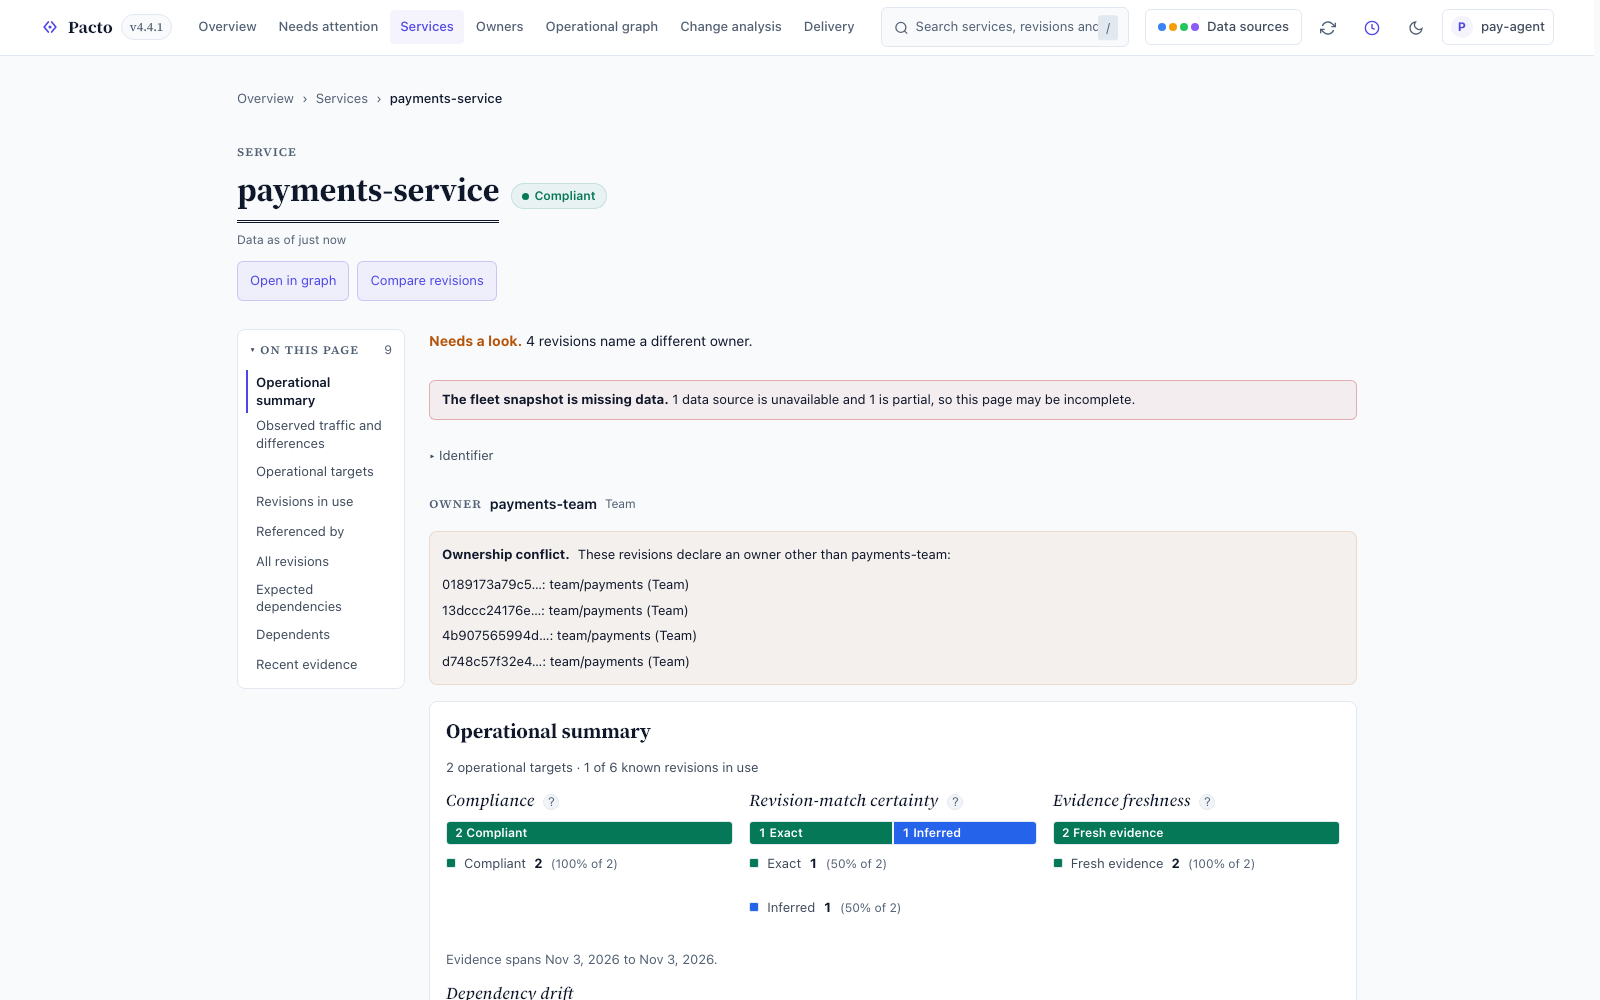
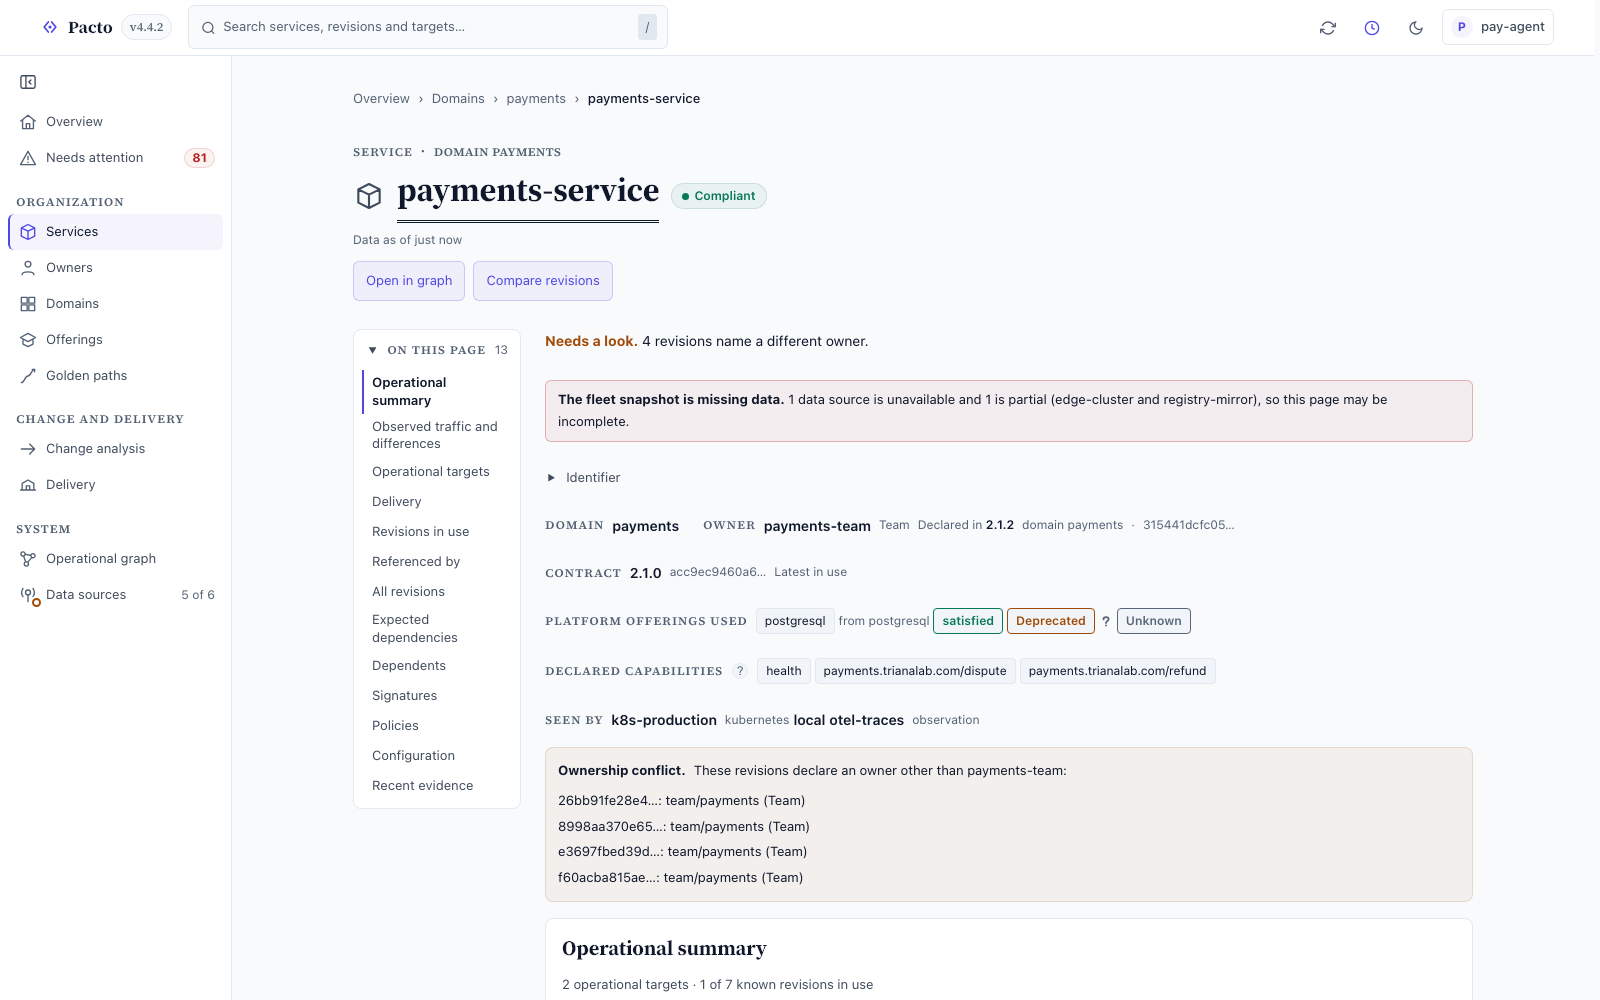
docs: regenerate the dashboard screenshots from the WASM demo with a reproducible capture
make docs-screenshots builds the demo and captures every documented
view at 1600x1000 in both themes, with the notice dismissed and each
figure at its final frame. The captions now describe what the new
screenshots show.

diff --git a/pkg/dashboard/frontend/e2e-screenshots/capture.spec.ts b/pkg/dashboard/frontend/e2e-screenshots/capture.spec.ts
@@ -1,0 +1,50 @@
+import { test, expect, type Page } from '@playwright/test';
+import { appReady, settle } from '../e2e/ready';
+import { chooseRevision } from '../e2e/layoutGate';
+
+// One screenshot per documented view and theme, at 1600x1000 with the sidebar in its
+// wide-screen default (expanded). The demo's notice strip is dismissed, and every
+// figure is shown at its final frame, so two runs over the same build match.
+const OUT = '../../../docs/assets/screenshots';
+
+const SHOTS: { name: string; open: (page: Page) => Promise<void> }[] = [
+  { name: 'overview', open: (p) => go(p, '/#/fleet', 'Is anything wrong?') },
+  { name: 'service', open: (p) => go(p, '/#/fleet/services/payments-service', 'payments-service') },
+  { name: 'graph', open: async (p) => { await go(p, '/#/fleet/graph/service/payments-service', 'Operational graph'); await p.waitForTimeout(1500); } },
+  {
+    name: 'change-analysis',
+    open: async (p) => {
+      await go(p, '/#/fleet/changes/payments-service', 'Change analysis');
+      await chooseRevision(p, '#impact-old-rev', '1.2.1');
+      await chooseRevision(p, '#impact-new-rev', '2.0.1');
+      await p.getByRole('button', { name: /Compare revisions/ }).click();
+      await expect(p.locator('[data-fig] svg[role="img"]').first()).toBeAttached();
+    },
+  },
+  { name: 'delivery-stages', open: (p) => go(p, '/#/delivery/environments', 'Stages') },
+  { name: 'autonomy', open: (p) => go(p, '/#/delivery/autonomy', 'Autonomy') },
+];
+
+async function go(page: Page, hash: string, heading: string) {
+  await page.goto(hash);
+  await expect(page.getByRole('heading', { level: 1 }).filter({ hasText: heading }).first()).toBeVisible();
+}
+
+for (const theme of ['light', 'dark'] as const) {
+  test.describe(theme, () => {
+    test.use({ colorScheme: theme });
+    for (const s of SHOTS) {
+      test(s.name, async ({ page }) => {
+        await appReady(page);
+        const dismiss = page.getByRole('button', { name: 'Dismiss this notice' });
+        if (await dismiss.isVisible()) await dismiss.click();
+        await s.open(page);
+        await page.evaluate(() => { document.documentElement.dataset.narrate = 'final'; });
+        await page.evaluate(() => document.getAnimations().forEach((a) => a.finish()));
+        await settle(page);
+        await page.evaluate(() => window.scrollTo(0, 0));
+        await page.screenshot({ path: `${OUT}/dashboard-${s.name}-${theme}.png`, animations: 'disabled', caret: 'hide' });
+      });
+    }
+  });
+}

diff --git a/pkg/dashboard/frontend/playwright.screenshots.config.ts b/pkg/dashboard/frontend/playwright.screenshots.config.ts
@@ -1,0 +1,20 @@
+import { defineConfig, devices } from '@playwright/test';
+import { APP_PORT } from './e2e/ports';
+
+// The documentation screenshots (docs/assets/screenshots/dashboard-*.png), captured
+// from the BUILT WASM demo so they are reproducible: `make docs-screenshots`. A
+// separate config, so the PR suite never rewrites the docs' images.
+export default defineConfig({
+  testDir: './e2e-screenshots',
+  timeout: 90_000,
+  expect: { timeout: 20_000 },
+  workers: 1,
+  reporter: [['list']],
+  use: { ...devices['Desktop Chrome'], baseURL: `http://127.0.0.1:${APP_PORT}/`, viewport: { width: 1600, height: 1000 }, deviceScaleFactor: 1 },
+  webServer: {
+    command: `python3 e2e/serve.py ${APP_PORT} ../../../examples/demo/dist`,
+    url: `http://127.0.0.1:${APP_PORT}/index.html`,
+    reuseExistingServer: !process.env.CI,
+    timeout: 60_000,
+  },
+});

diff --git a/pkg/dashboard/frontend/vite.config.js b/pkg/dashboard/frontend/vite.config.js
@@ -19,9 +19,9 @@ export default defineConfig(({ mode }) => ({
     // jsdom has no Web Animations API and no matchMedia; Svelte's transitions,
     // animate:flip and prefersReducedMotion all need them. See src/test-setup.ts.
     setupFiles: ['./src/test-setup.ts'],
-    // e2e/, e2e-live/ and e2e-docs-site/ hold Playwright browser specs (*.spec.ts)
+    // e2e/, e2e-live/, e2e-docs-site/ and e2e-screenshots/ hold Playwright browser specs (*.spec.ts)
     // driven by a real browser, not vitest/jsdom — exclude them from the unit run.
-    exclude: ['e2e/**', 'e2e-live/**', 'e2e-docs-site/**', '**/node_modules/**', '**/dist/**'],
+    exclude: ['e2e/**', 'e2e-live/**', 'e2e-docs-site/**', 'e2e-screenshots/**', '**/node_modules/**', '**/dist/**'],
   },
   ...(mode === 'test' ? { resolve: { conditions: ['browser'] } } : {}),
 }));

diff --git a/docs/impact.md b/docs/impact.md
@@ -250,8 +250,8 @@ evidence gaps are folded below it, each with its count. It reads the **currently
 Operational Graph shows, so its `snapshotId` matches the graph. The **include-observed** control is enabled only when the host
 declares an observation source, because observed evidence needs a real source.
 
-![Change analysis for payments-service 1.2.1 to 2.0.1: the change is breaking and blocked, and the affected consumers table lists api-gateway and orders-service as incompatible](assets/screenshots/dashboard-change-analysis-light.png#only-light)
-![Change analysis for payments-service 1.2.1 to 2.0.1: the change is breaking and blocked, and the affected consumers table lists api-gateway and orders-service as incompatible](assets/screenshots/dashboard-change-analysis-dark.png#only-dark)
+![Change analysis for payments-service 1.2.1 to 2.0.1: the change is breaking and blocked, and the Incompatible lane names api-gateway and orders-service](assets/screenshots/dashboard-change-analysis-light.png#only-light)
+![Change analysis for payments-service 1.2.1 to 2.0.1: the change is breaking and blocked, and the Incompatible lane names api-gateway and orders-service](assets/screenshots/dashboard-change-analysis-dark.png#only-dark)
 
 ## What's next
 

diff --git a/docs/examples/dashboard-demo.md b/docs/examples/dashboard-demo.md
@@ -58,8 +58,8 @@ can see how Pacto reports them.
 
 The delivery screens play the payments story, the scenario every demo shares.
 
-![The Stages tab: five services across test and prod, each with its running version, autonomy level and check result, and the "What Pacto would have done" list for fraud](../assets/screenshots/dashboard-delivery-stages-light.png#only-light)
-![The Stages tab: five services across test and prod, each with its running version, autonomy level and check result, and the "What Pacto would have done" list for fraud](../assets/screenshots/dashboard-delivery-stages-dark.png#only-dark)
+![The Stages tab: a figure of where the services stand in test, prod, prod-eu and prod-us, and below it each service with its running version, autonomy level and check result per environment](../assets/screenshots/dashboard-delivery-stages-light.png#only-light)
+![The Stages tab: a figure of where the services stand in test, prod, prod-eu and prod-us, and below it each service with its running version, autonomy level and check result per environment](../assets/screenshots/dashboard-delivery-stages-dark.png#only-dark)
 
 Before the tour starts, the tab has already played its first steps, so the
 screens show:

diff --git a/docs/autonomy-reference.md b/docs/autonomy-reference.md
@@ -63,8 +63,8 @@ whose impact check passed and that then verified.
 
 The dashboard's **Autonomy** tab groups the blockers by kind across every Stage:
 
-![The Autonomy tab in the demo: 9 blockers grouped by kind, such as a runtime caller with no contract and Stages that need more verified releases](assets/screenshots/dashboard-autonomy-light.png#only-light)
-![The Autonomy tab in the demo: 9 blockers grouped by kind, such as a runtime caller with no contract and Stages that need more verified releases](assets/screenshots/dashboard-autonomy-dark.png#only-dark)
+![The Autonomy tab in the demo: 9 blockers stand in the way, and a figure counts the Stages at each autonomy level and who approved their promotions](assets/screenshots/dashboard-autonomy-light.png#only-light)
+![The Autonomy tab in the demo: 9 blockers stand in the way, and a figure counts the Stages at each autonomy level and who approved their promotions](assets/screenshots/dashboard-autonomy-dark.png#only-dark)
 
 ## Changing the level
 
